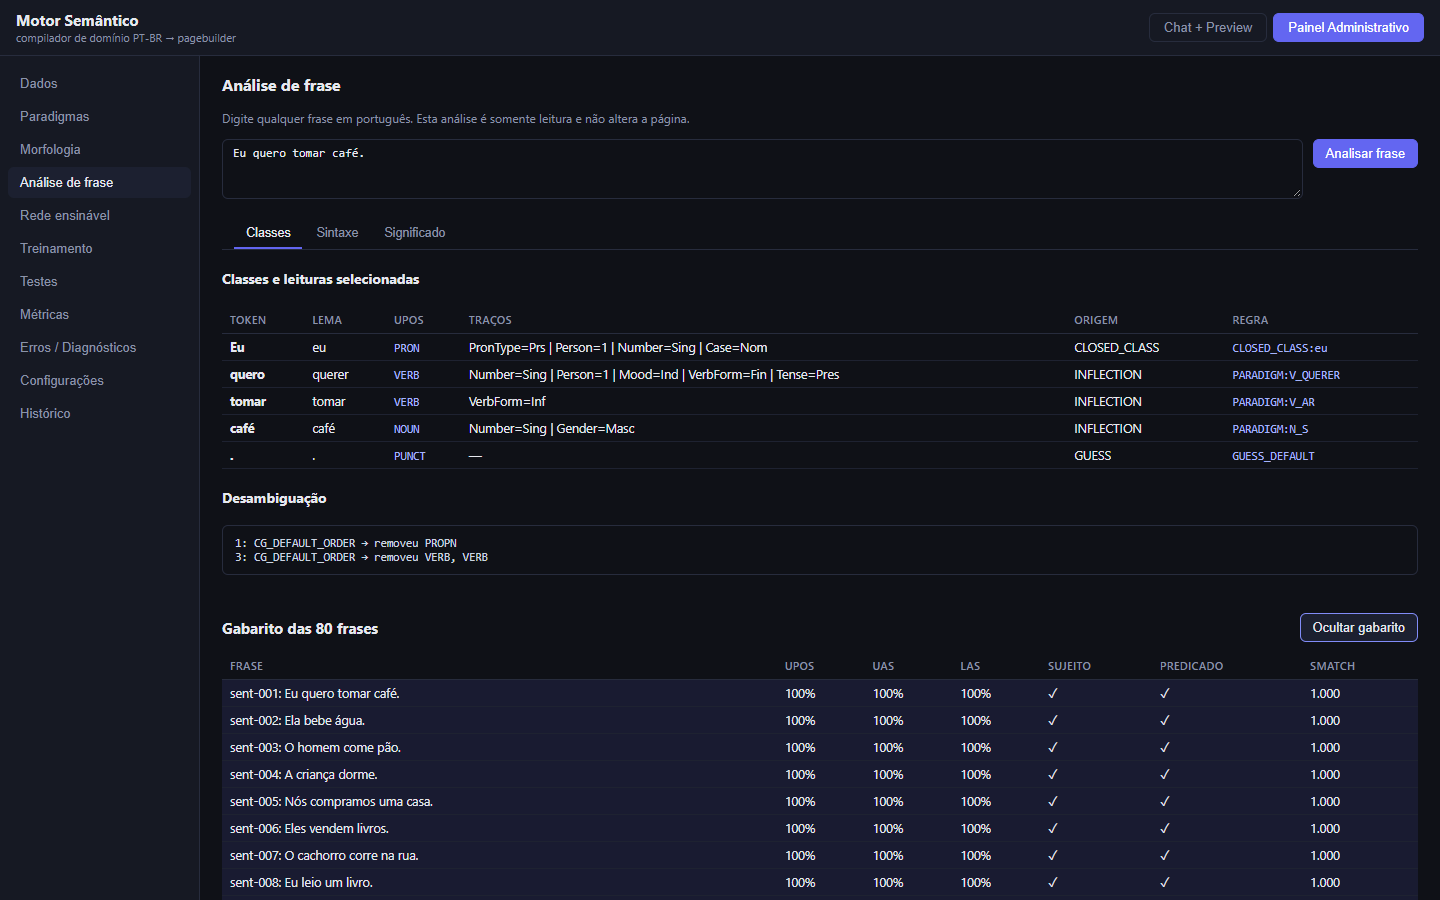
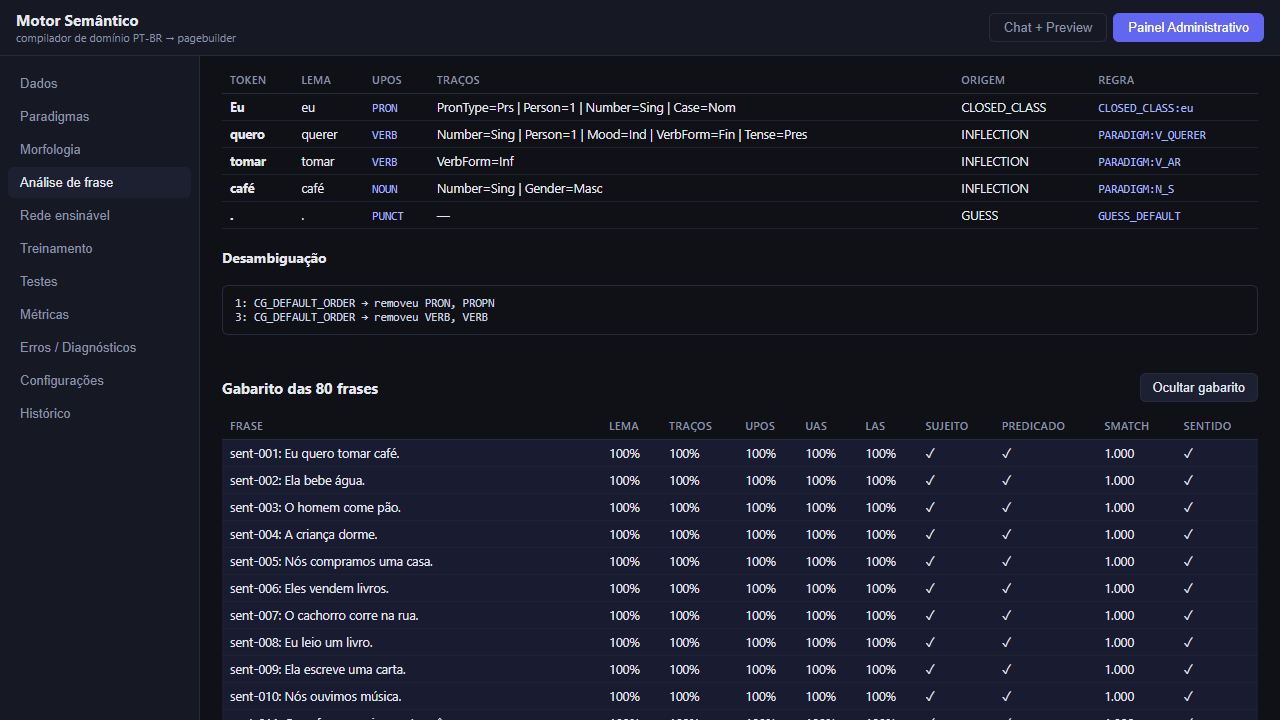
Mostra todas as métricas e diferenças das oitenta frases

diff --git a/src/ui/components/admin/SentenceAnalysisSection.tsx b/src/ui/components/admin/SentenceAnalysisSection.tsx
@@ -9,10 +9,10 @@ import { smatchF1 } from '../../../eval/graphMatch';
 import gold from '../../../../research/morfologia/tests-sentences.json';
 import { SentenceAnalysisViews, type SentenceView } from '../SentenceAnalysisViews';
 
-interface Props { engine: SemanticEngine }
+interface Props { engine: SemanticEngine; initialShowGold?: boolean }
 type GoldSentence = {
   id: string; text: string; meaningGraph: string;
-  tokens: Array<{ form: string; pos: string }>;
+  tokens: Array<{ form: string; lemma: string; pos: string; feats?: string }>;
   dependencies: Array<{ dep: number; head: number; rel: string }>;
   subject: number[]; predicate: number[];
 };
@@ -25,29 +25,41 @@ const uposMap: Record<string, string[]> = {
 };
 
 function compareGold(engine: SemanticEngine) {
-  const tagger = new LanguageTagger(new LexicalAnalyzer(engine.knowledgeBase.lexemes));
-  const parser = new DependencyParser();
+  const lexical = new LexicalAnalyzer(engine.knowledgeBase.lexemes, engine.knowledgeBase.languageRoots);
+  const tagger = new LanguageTagger(lexical);
+  const parser = new DependencyParser(engine.knowledgeBase.languageRoots);
   const clauses = new ClauseAnalyzer();
   return goldSentences.map((sentence) => {
     const tagged = tagger.tagForms(sentence.tokens.map((token) => token.form));
     const arcs = parser.parse(tagged.words);
     const clause = clauses.analyze(tagged.words, arcs);
     const meaning = engine.analyzeSentence(sentence.text).meaningGraph;
+    const lexicalCandidates = sentence.tokens.map((token) => lexical.analyzeSurface(token.form));
+    const lexicalTokens = sentence.tokens.map((token, index) => ({ token, readings: lexicalCandidates[index] }))
+      .filter(({ token }) => token.pos !== 'PUNCT');
+    const lemma = lexicalTokens.filter(({ token, readings }) => readings.some((reading) => reading.lemma === token.lemma)).length / lexicalTokens.length;
+    const annotated = lexicalTokens.filter(({ token }) => token.feats);
+    const features = annotated.length ? annotated.filter(({ token, readings }) => readings.some((reading) =>
+      Object.entries(Object.fromEntries(token.feats!.split('|').map((feature) => feature.split('='))))
+        .every(([key, value]) => reading.feats[key] === value))).length / annotated.length : 1;
+    const expectedSense = sentence.meaningGraph.match(/[\p{L}]+\.[A-Z_]+/u)?.[0];
+    const sense = !expectedSense || meaning.nodes.some((node) => node.concept === expectedSense);
     const upos = tagged.words.reduce((sum, word, index) => sum + Number((uposMap[sentence.tokens[index].pos] ?? [sentence.tokens[index].pos]).includes(word.selected.upos)), 0) / sentence.tokens.length;
     const uas = sentence.dependencies.reduce((sum, arc) => sum + Number(arcs[arc.dep - 1]?.head === arc.head), 0) / sentence.dependencies.length;
     const las = sentence.dependencies.reduce((sum, arc) => sum + Number(arcs[arc.dep - 1]?.head === arc.head && arcs[arc.dep - 1]?.deprel === arc.rel), 0) / sentence.dependencies.length;
     const subject = JSON.stringify(clause.subject) === JSON.stringify(sentence.subject);
     const predicate = JSON.stringify(clause.predicate) === JSON.stringify(sentence.predicate);
     const smatch = smatchF1(meaning.penman, sentence.meaningGraph);
-    return { sentence, tagged, arcs, clause, meaning, upos, uas, las, subject, predicate, smatch };
+    return { sentence, tagged, arcs, clause, meaning, lexicalCandidates, lemma, features, expectedSense, sense,
+      upos, uas, las, subject, predicate, smatch };
   });
 }
 
-export function SentenceAnalysisSection({ engine }: Props) {
+export function SentenceAnalysisSection({ engine, initialShowGold = false }: Props) {
   const [text, setText] = useState('Eu quero tomar café.');
   const [analysis, setAnalysis] = useState<SentenceAnalysis>(() => engine.analyzeSentence('Eu quero tomar café.'));
   const [view, setView] = useState<SentenceView>('classes');
-  const [showGold, setShowGold] = useState(false);
+  const [showGold, setShowGold] = useState(initialShowGold);
   const comparisons = useMemo(() => showGold ? compareGold(engine) : [], [showGold, engine]);
   const views: Array<{ id: SentenceView; label: string }> = [
     { id: 'classes', label: 'Classes' }, { id: 'syntax', label: 'Sintaxe' }, { id: 'meaning', label: 'Significado' }
@@ -71,17 +83,18 @@ export function SentenceAnalysisSection({ engine }: Props) {
     </div>
     {showGold && <div className="sentence-gold-list">
       <table className="data-table">
-        <thead><tr><th>Frase</th><th>UPOS</th><th>UAS</th><th>LAS</th><th>Sujeito</th><th>Predicado</th><th>Smatch</th></tr></thead>
-        <tbody>{comparisons.map((item) => <tr key={item.sentence.id} className={item.smatch === 1 && item.las === 1 && item.upos === 1 ? 'row-selected' : 'row-fail'}>
+        <thead><tr><th>Frase</th><th>Lema</th><th>Traços</th><th>UPOS</th><th>UAS</th><th>LAS</th><th>Sujeito</th><th>Predicado</th><th>Smatch</th><th>Sentido</th></tr></thead>
+        <tbody>{comparisons.map((item) => <tr key={item.sentence.id} className={item.lemma === 1 && item.features === 1 && item.upos === 1 && item.uas === 1 && item.las === 1 && item.subject && item.predicate && item.smatch === 1 && item.sense ? 'row-selected' : 'row-fail'}>
           <td>{item.sentence.id}: {item.sentence.text}</td>
+          <td>{(item.lemma * 100).toFixed(0)}%</td><td>{(item.features * 100).toFixed(0)}%</td>
           <td>{(item.upos * 100).toFixed(0)}%</td><td>{(item.uas * 100).toFixed(0)}%</td><td>{(item.las * 100).toFixed(0)}%</td>
-          <td>{item.subject ? '✓' : '✗'}</td><td>{item.predicate ? '✓' : '✗'}</td><td>{item.smatch.toFixed(3)}</td>
+          <td>{item.subject ? '✓' : '✗'}</td><td>{item.predicate ? '✓' : '✗'}</td><td>{item.smatch.toFixed(3)}</td><td>{item.sense ? '✓' : '✗'}</td>
         </tr>)}</tbody>
       </table>
-      {comparisons.filter((item) => item.smatch < 1 || item.las < 1 || item.upos < 1 || !item.subject || !item.predicate).map((item) => <details key={item.sentence.id} className="failure">
+      {comparisons.filter((item) => item.lemma < 1 || item.features < 1 || item.upos < 1 || item.uas < 1 || item.las < 1 || !item.subject || !item.predicate || item.smatch < 1 || !item.sense).map((item) => <details key={item.sentence.id} className="failure">
         <summary>{item.sentence.id} — {item.sentence.text}</summary>
-        <div className="diff"><div><label>Gabarito</label><pre>{item.sentence.tokens.map((token) => `${token.form}/${token.pos}`).join(' ')}{'\n'}{item.sentence.dependencies.map((arc) => `${arc.dep}←${arc.head}:${arc.rel}`).join(' ')}{'\n'}{item.sentence.meaningGraph}</pre></div>
-          <div><label>Saída</label><pre>{item.tagged.words.map((word) => `${word.form}/${word.selected.upos}`).join(' ')}{'\n'}{item.arcs.map((arc) => `${arc.id}←${arc.head}:${arc.deprel}`).join(' ')}{'\n'}{item.meaning.penman}</pre></div></div>
+        <div className="diff"><div><label>Gabarito</label><pre>{`Lema esperado: ${item.sentence.tokens.map((token) => `${token.form}/${token.lemma}`).join(' ')}\nTraços esperados: ${item.sentence.tokens.filter((token) => token.feats).map((token) => `${token.form}/${token.feats}`).join(' ')}\nUPOS esperado: ${item.sentence.tokens.map((token) => `${token.form}/${token.pos}`).join(' ')}\nDependências esperadas: ${item.sentence.dependencies.map((arc) => `${arc.dep}←${arc.head}:${arc.rel}`).join(' ')}\nSujeito esperado: [${item.sentence.subject.join(', ')}]\nPredicado esperado: [${item.sentence.predicate.join(', ')}]\nSentido esperado: ${item.expectedSense ?? '—'}\nGrafo esperado: ${item.sentence.meaningGraph}`}</pre></div>
+          <div><label>Saída</label><pre>{`Lemas candidatos: ${item.sentence.tokens.map((token, index) => `${token.form}/${item.lexicalCandidates[index].map((reading) => reading.lemma).join('|')}`).join(' ')}\nTraços candidatos: ${item.sentence.tokens.map((token, index) => `${token.form}/${item.lexicalCandidates[index].map((reading) => Object.entries(reading.feats).map(([key, value]) => `${key}=${value}`).join('|')).join(';')}`).join(' ')}\nUPOS selecionado: ${item.tagged.words.map((word) => `${word.form}/${word.selected.upos}`).join(' ')}\nDependências obtidas: ${item.arcs.map((arc) => `${arc.id}←${arc.head}:${arc.deprel}`).join(' ')}\nSujeito obtido: [${item.clause.subject.join(', ')}]\nPredicado obtido: [${item.clause.predicate.join(', ')}]\nSentido obtido: ${item.meaning.nodes.find((node) => node.id === item.meaning.root)?.concept ?? '—'}\nGrafo obtido: ${item.meaning.penman}`}</pre></div></div>
       </details>)}
     </div>}
   </section>;

diff --git a/src/ui/styles.css b/src/ui/styles.css
@@ -239,6 +239,8 @@ textarea { font-family: var(--mono); font-size: 12px; width: 100%; }
 .sentence-gold-header h3 { margin: 0; font-size: 15px; }
 .sentence-gold-list { overflow-x: auto; }
 .sentence-gold-list .data-table { min-width: 800px; }
+.sentence-gold-list .diff { grid-template-columns: repeat(2, minmax(0, 1fr)); }
+.sentence-gold-list .diff pre { white-space: pre-wrap; overflow-wrap: anywhere; }
 .network-form { max-width: 650px; padding: 16px 0; }
 .network-form small { color: var(--muted); }
 .network-form button { justify-self: start; }

diff --git a/RELATORIO_SINTAXE.md b/RELATORIO_SINTAXE.md
@@ -62,7 +62,7 @@ Fase 1: os três casos de ruído, as dez palavras de radical latino fora dos dad
 
 ## Interface e capturas
 
-No Chrome local, `http://127.0.0.1:5173/`, foram verificados: chat → “Eu quero tomar café.” → Classes/Sintaxe/Significado; painel → texto livre; lista de 80 frases com métricas e diff; cinco frases do gabarito e cinco frases novas; ensino de `surfar`, análise de “Nós surfamos ontem.” e restauração após recarga. A vista móvel foi ajustada após uma captura revelar a navegação lateral larga. O primeiro carregamento expôs um favicon ausente (404); foi adicionado `public/favicon.svg`. Na sessão limpa final, o ícone respondeu `200` e não houve erros ou avisos no console. Após as mudanças recentes, a análise do exemplo foi conferida outra vez no Chrome pela porta local 5174: classes, árvore, sujeito, predicado completo e reentrância no PENMAN; cinco frases do gabarito e cinco frases novas mostraram grafo e trace sem erro no console. O plugin Browser não estava disponível; foi usado Playwright já presente no ambiente com Chrome local, sem instalação.
+No Chrome local, `http://127.0.0.1:5173/`, foram verificados: chat → “Eu quero tomar café.” → Classes/Sintaxe/Significado; painel → texto livre; lista de 80 frases com métricas e diff; cinco frases do gabarito e cinco frases novas; ensino de `surfar`, análise de “Nós surfamos ontem.” e restauração após recarga. A vista móvel foi ajustada após uma captura revelar a navegação lateral larga. O primeiro carregamento expôs um favicon ausente (404); foi adicionado `public/favicon.svg`. Na sessão limpa final, o ícone respondeu `200` e não houve erros ou avisos no console. Após as mudanças recentes, a análise do exemplo foi conferida outra vez no Chrome pela porta local 5174: classes, árvore, sujeito, predicado completo e reentrância no PENMAN; cinco frases do gabarito e cinco frases novas mostraram grafo e trace sem erro no console. O painel foi novamente aberto no Chrome: exibiu 80 linhas e as nove métricas pedidas; o diff expandido mostra valores esperados e obtidos de lema, traços, UPOS, dependências, sujeito, predicado, sentido e grafo, sem erro de console. O plugin Browser não estava disponível; foi usado Playwright já presente no ambiente com Chrome local, sem instalação.
 
 O novo armazenamento foi verificado no Chrome com o `localStorage` quase cheio: o IndexedDB confirmou uma transação com duas versões e a raiz `surfar`; a recarga preservou ambos. A aplicação não requer servidor SQL nem dependência nova para esse cenário local.
 
@@ -70,6 +70,7 @@ O novo armazenamento foi verificado no Chrome com o `localStorage` quase cheio: 
 ![Árvore UD e CoNLL-U](research/morfologia/capturas/analise-sintaxe.png)
 ![Grafo e reentrância](research/morfologia/capturas/analise-significado.png)
 ![Comparação do gabarito](research/morfologia/capturas/gabarito.png)
+![Diff detalhado de uma falha](research/morfologia/capturas/gabarito-diff.png)
 ![Vista móvel](research/morfologia/capturas/mobile-classes.png)
 ![Rede ensinada](research/morfologia/capturas/rede-surfar.png)
 ![Frase com raiz ensinada](research/morfologia/capturas/surfar-frase.png)
@@ -82,7 +83,7 @@ O novo armazenamento foi verificado no Chrome com o `localStorage` quase cheio: 
 |---|---|
 | Suíte antiga e nova, TypeScript e build | Saída dos três comandos na seção seguinte; os testes antigos continuam na suíte. |
 | Limiares no gabarito e nas extras | Tabela de números medidos acima e saídas impressas por `language-inflection`, `language-tagger`, `language-dependencies` e `meaning-graph`. Os dez grafos não exatos permanecem identificados. |
-| Exemplo completo no painel | Verificação no Chrome de classes, sujeito, predicado, árvore e PENMAN com o mesmo nó `eu` nos dois `ARG0`; capturas das três vistas. |
+| Exemplo completo e gabarito no painel | Verificação no Chrome de classes, sujeito, predicado, árvore e PENMAN com o mesmo nó `eu` nos dois `ARG0`; 80 linhas com nove métricas e diff aberto; capturas das vistas e do diff. |
 | Nenhuma forma lexical portuguesa literal no TypeScript geral | Teste específico em `tests/architecture.test.ts` inspeciona todos os `.ts` de `src/engine/language/` contra formas do léxico, classes fechadas e domínio. |
 | Nenhuma base externa ou dependência de runtime nova | Paradigmas e irregulares em `src/` têm o mesmo conteúdo SHA-256 dos arquivos de `research/morfologia/` já fornecidos; os demais JSON foram digitados para as regras desta entrega. `package.json` não mudou desde `591733f`. Busca no motor geral não encontrou chamadas `fetch`, `XMLHttpRequest` ou `WebSocket`; URLs em radicais são apenas referências. |
 | Comandos do construtor preservados | Suíte de 413 testes de partida permanece integrada e verde; os testes de domínio e de arquitetura continuam aprovados. A única alteração funcional do domínio é `DERIVED_MATCH`, testada. |
@@ -90,6 +91,6 @@ O novo armazenamento foi verificado no Chrome com o `localStorage` quase cheio: 
 
 ## Verificação final
 
-Saída observada após a auditoria do trace semântico: `npm test` → **39 arquivos aprovados, 583 testes aprovados (583)**, sem falhas; `npx tsc --noEmit` → código de saída `0`; `npm run build` → código de saída `0`, 129 módulos transformados, bundle principal de 1.233,96 kB. O Vite emitiu aviso de chunk acima de 500 kB; o limite não foi afrouxado. A vista renderizada também verifica o ID da moldura e o registro da preferência semântica.
+Saída observada após a comparação completa no painel: `npm test` → **39 arquivos aprovados, 584 testes aprovados (584)**, sem falhas; `npx tsc --noEmit` → código de saída `0`; `npm run build` → código de saída `0`, 129 módulos transformados, bundle principal de 1.235,96 kB. O Vite emitiu aviso de chunk acima de 500 kB; o limite não foi afrouxado. A vista renderizada também verifica o ID da moldura e o registro da preferência semântica.
 
 Comandos do construtor preservados, exceto a recuperação derivacional avaliativa solicitada (`DERIVED_MATCH`); a suíte antiga de 413 testes permaneceu verde. Não houve instalação de dependências de runtime, uso de rede em tempo de execução, `eval`, `new Function` ou aleatoriedade na camada nova.
